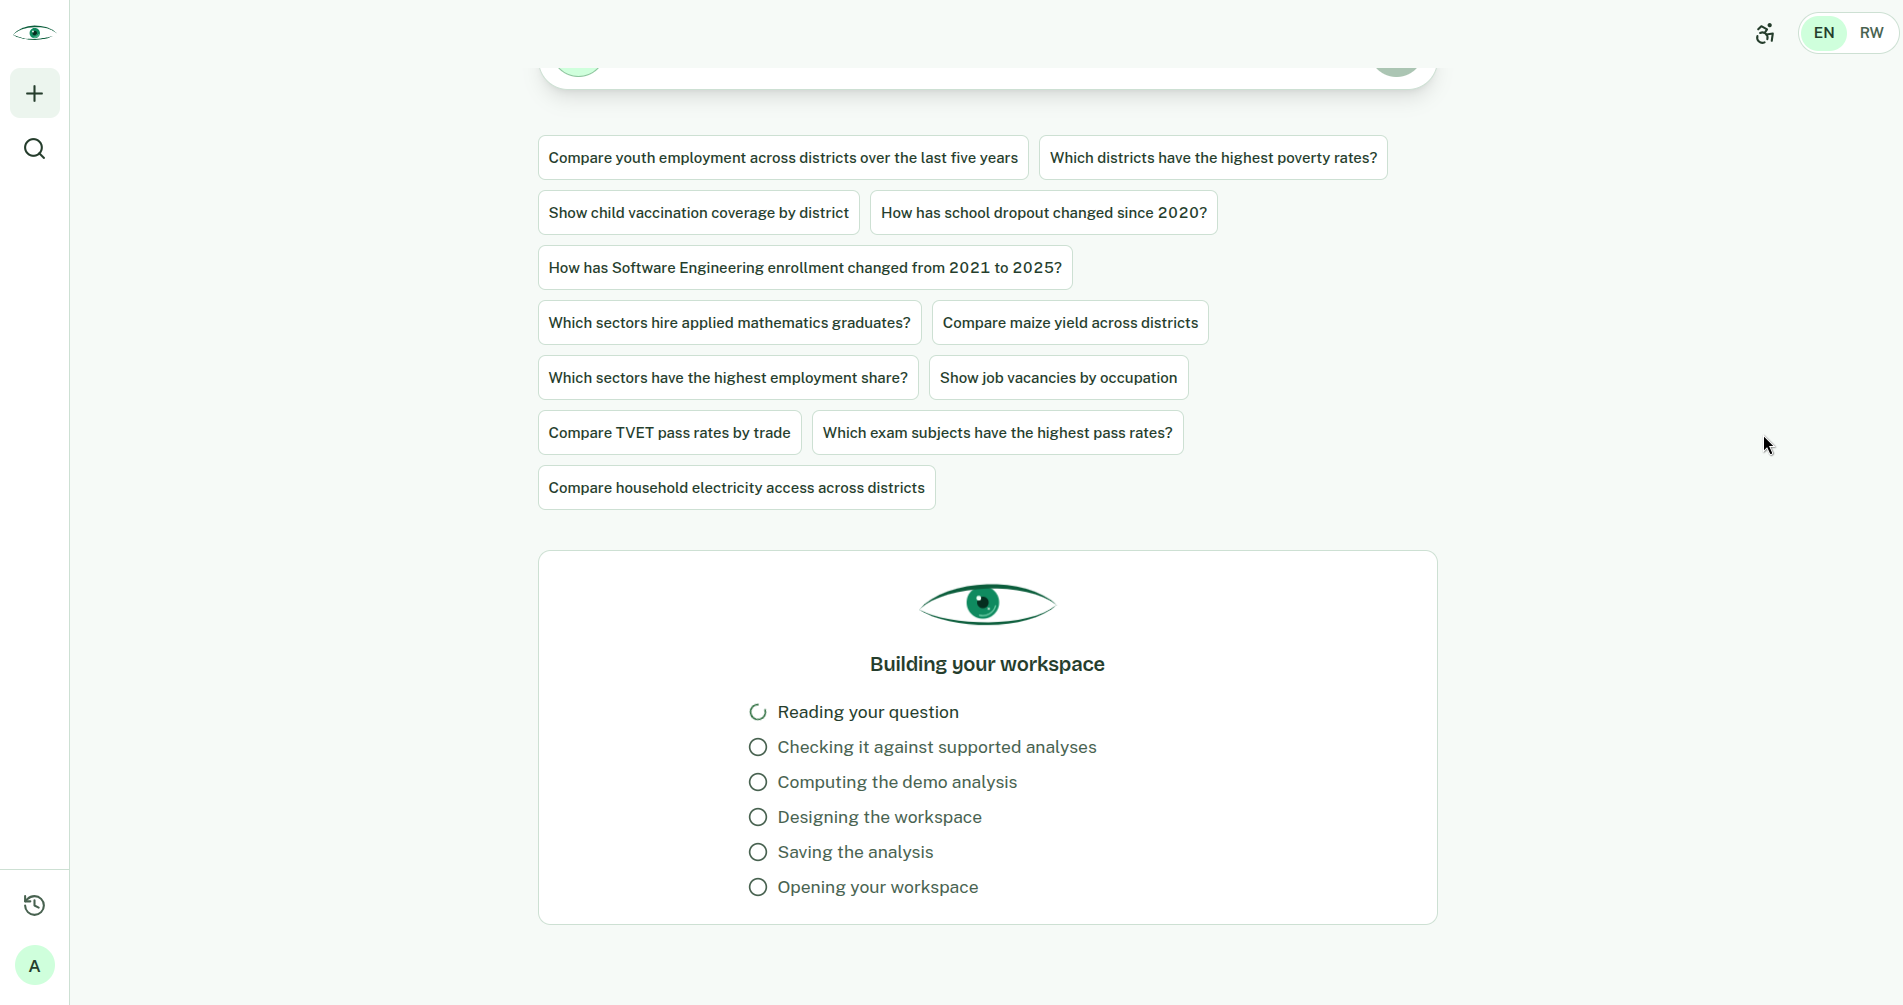
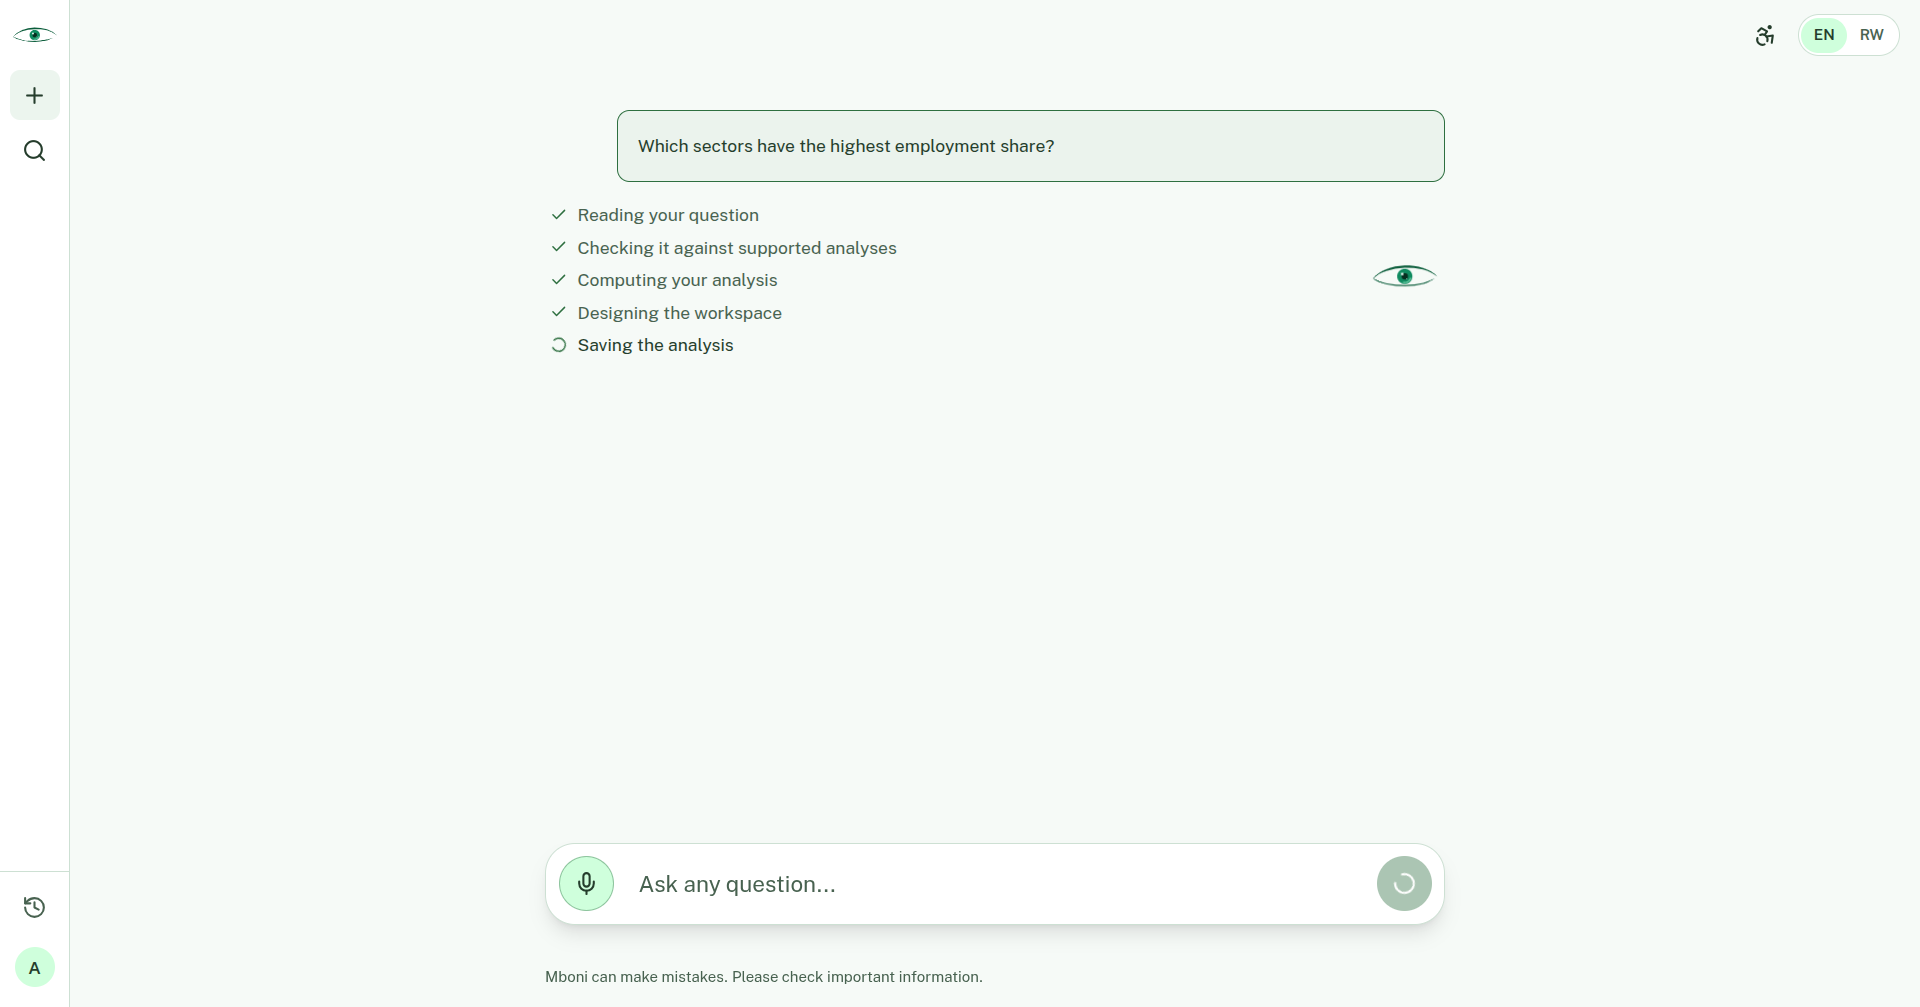
Update documentation and add new UI screenshots

diff --git a/README.md b/README.md
@@ -234,6 +234,15 @@ Open https://mboni-app.vercel.app and sign in with the demo account below, or cr
 
 ![Data tables and comparisons](docs/screenshots/04-data-inspection.png)
 
+![Data tables and comparisons](docs/screenshots/04-data-inspection-2.png)
+
+![Data tables and comparisons](docs/screenshots/04-data-inspection-3.png)
+
+![Data tables and comparisons](docs/screenshots/04-data-inspection-4.png)
+
+![Data tables and comparisons](docs/screenshots/04-data-inspection-5.png)
+
+
 ### 7. Geographic analysis
 
 ![Geographic analysis](docs/screenshots/05-geographic-analysis.png)
